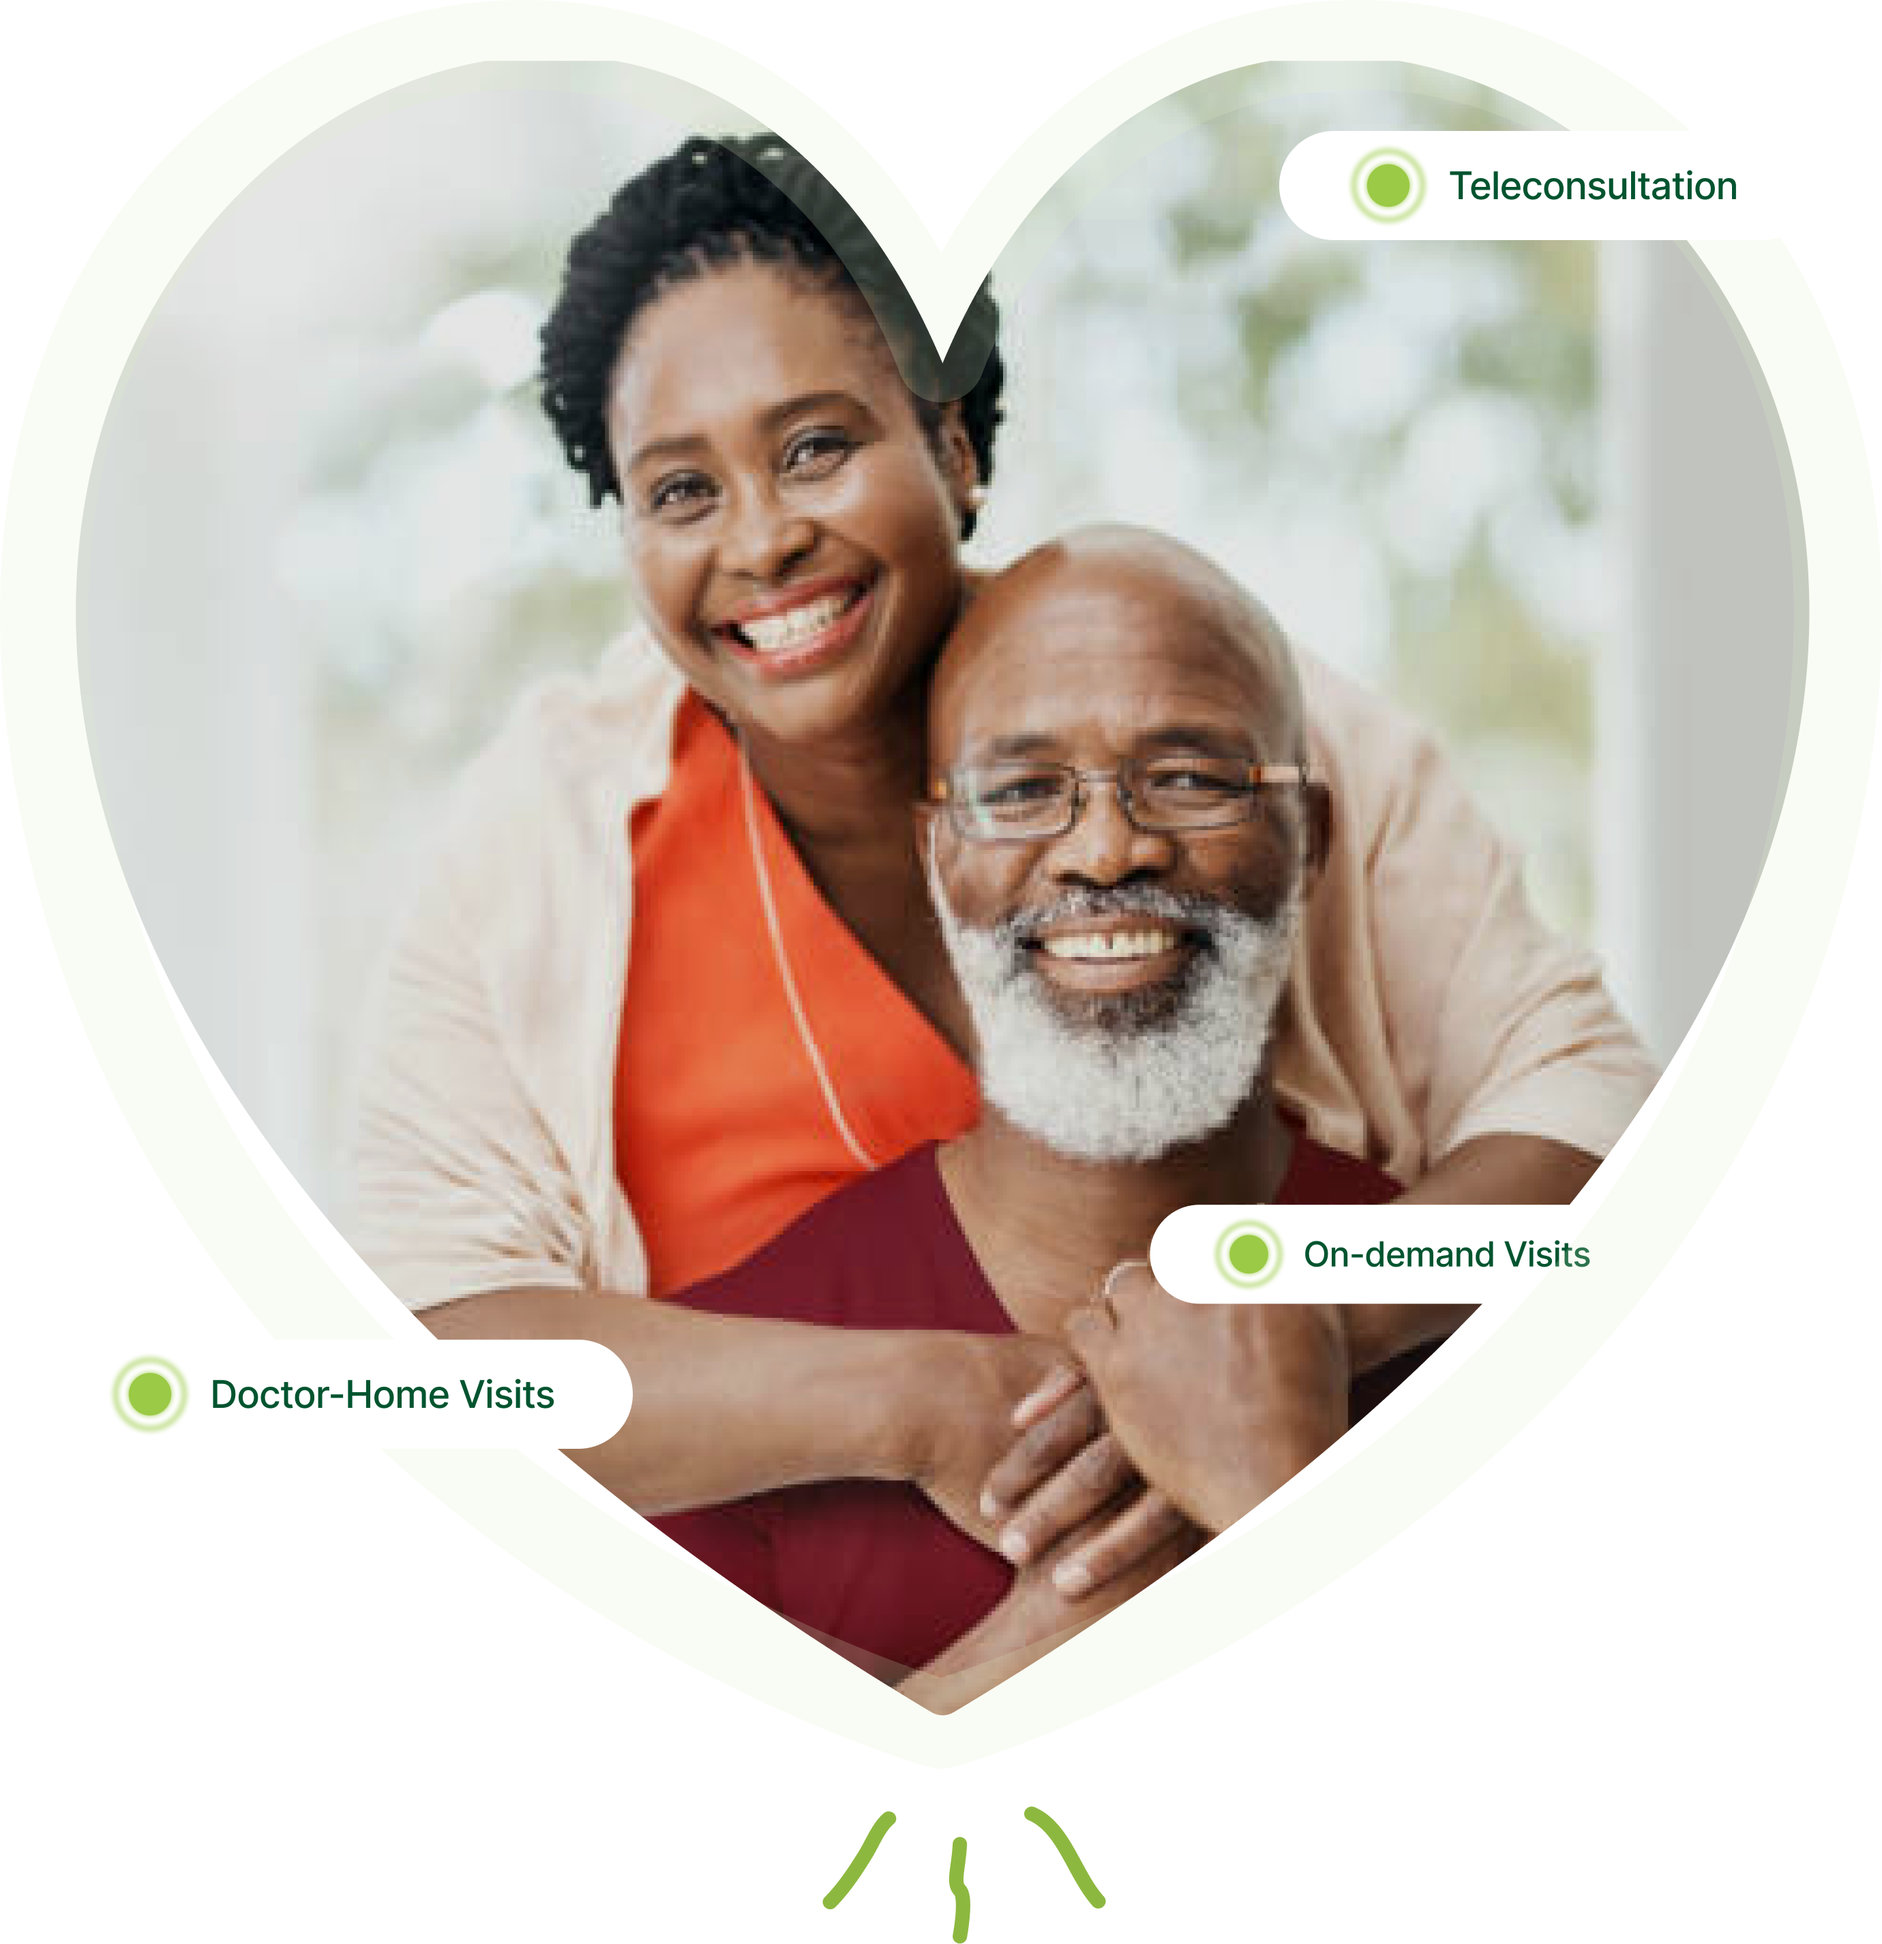
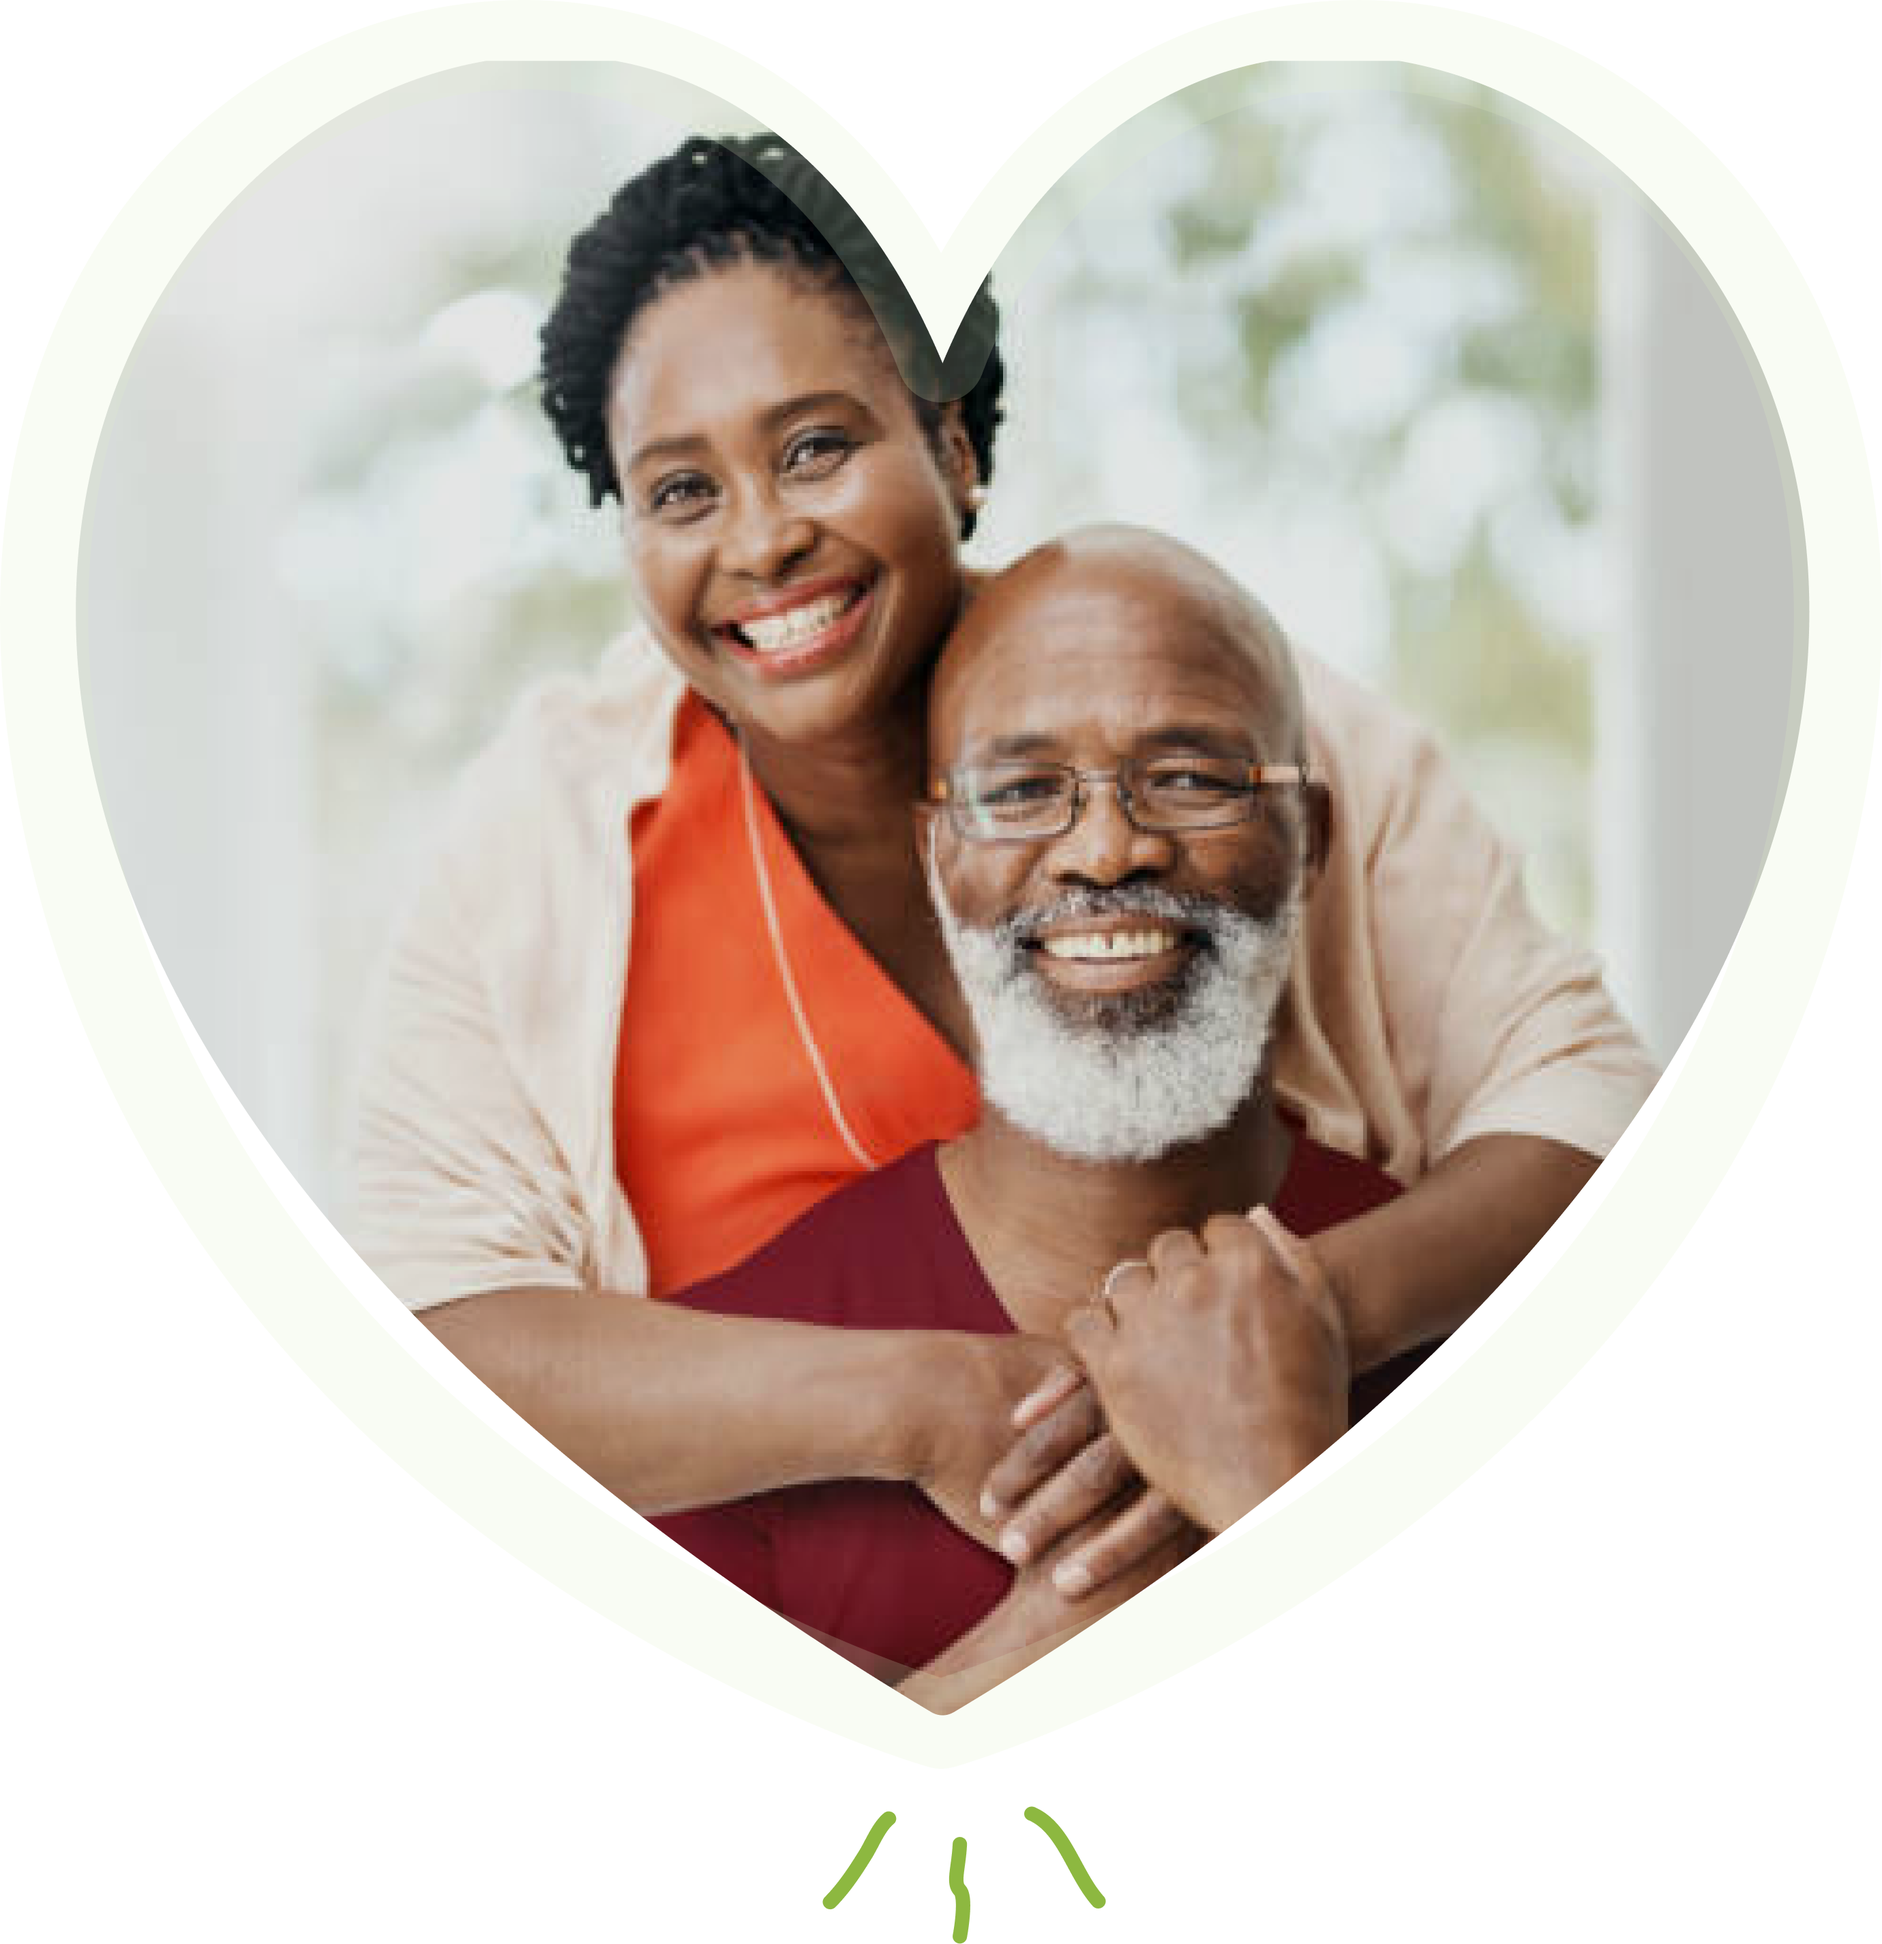
Fixing hero slider

diff --git a/src/pages/index.js b/src/pages/index.js
@@ -16,6 +16,11 @@ import SplitScreen from "@/Layout/SplitScreen";
 import Image from "next/image";
 import Root from "@/Layout/Root";
 import ServiceTag from "@/components/ServicesTag";
+import { useEffect, useState } from "react";
+import { Swiper, SwiperSlide } from "swiper/react";
+
+import { EffectFade, Autoplay } from "swiper";
+
 // import "../styles/main.scss";
 
 export default function Home() {
@@ -73,17 +78,58 @@ export default function Home() {
           </div>
 
           <div className="header__img header__img--1">
-            <Image
-              src={require("@/assets/img/hero-image-03@4x.png")}
-              alt={"Hero img"}
-              data-aos="fade-up"
-              data-aos-duration="2000"
-              data-aos-once="true"
-            />
+            <div className="header__img-swiper">
+              <Swiper
+                // centeredSlides={true}
+                autoplay={{
+                  delay: 10000,
+                  disableOnInteraction: false,
+                }}
+                loop={true}
+                effect={"fade"}
+                modules={[Autoplay]}
+              >
+                <SwiperSlide>
+                  <div className="header__img--1">
+                    <Image
+                      src={require("@/assets/img/hero-image-03@4x.png")}
+                      alt={"Hero img"}
+                      data-aos="fade-up"
+                      data-aos-duration="2000"
+                      data-aos-once="true"
+                    />
 
-            <ServiceTag service={"Teleconsultation"} href="/teleconsultation" />
-            <ServiceTag service={"Doctor Home Visits"} href="/elderly-care" />
-            <ServiceTag service={"On-Demand Doctor"} href="/doctor-on-demand" />
+                    <ServiceTag
+                      service={"Teleconsultation"}
+                      href="/teleconsultation"
+                    />
+                    <ServiceTag
+                      service={"Doctor Home Visits"}
+                      href="/elderly-care"
+                    />
+                    <ServiceTag
+                      service={"On-Demand Doctor"}
+                      href="/doctor-on-demand"
+                    />
+                  </div>
+                </SwiperSlide>
+
+                <SwiperSlide>
+                  <div className="header__img--1">
+                    <Image
+                      src={require("@/assets/img/hero-image-02@4x.png")}
+                      alt={"Hero img"}
+                      data-aos="fade-up"
+                      data-aos-duration="2000"
+                      data-aos-once="true"
+                    />
+
+                    <ServiceTag service={"Care Givers"} href="/care-giver" />
+                    <ServiceTag service={"HMO Plans"} href="/hmo" />
+                  </div>
+                </SwiperSlide>
+              </Swiper>
+            </div>
           </div>
         </SplitScreen>
       </Header>

diff --git a/src/styles/layouts/_header.scss b/src/styles/layouts/_header.scss
@@ -66,6 +66,14 @@
     p {
       max-width: 40rem;
     }
+
+    .splitscreen {
+      grid-template-columns: 50% 50%;
+
+      @include respond(tab-port) {
+        grid-template-columns: 100%;
+      }
+    }
   }
 
   &--testimonials {
@@ -84,6 +92,8 @@
     img {
       height: fit-content;
       border-radius: 0.8rem;
+      max-width: 85%;
+      margin: 0 auto;
 
       @include respond(tab-md) {
         display: block;
@@ -100,14 +110,16 @@
       position: absolute;
       transform: scale(0.9);
       cursor: pointer;
+      z-index: 7;
 
       // top: 0;
 
       &:nth-of-type(1) {
         top: 6.4rem;
-        right: -2.4rem;
+        right: 2.4rem;
 
         @include respond(phone-sm) {
+          right: -2.4rem;
           transform: scale(0.7);
         }
       }

diff --git a/src/pages/_app.js b/src/pages/_app.js
@@ -4,6 +4,7 @@ import ModalProvider from "@/context/modal";
 import AOS from "aos";
 import { useLayoutEffect } from "react";
 import "aos/dist/aos.css";
+import "swiper/css";
 import "../styles/main.scss";
 
 export default function App({ Component, pageProps }) {
